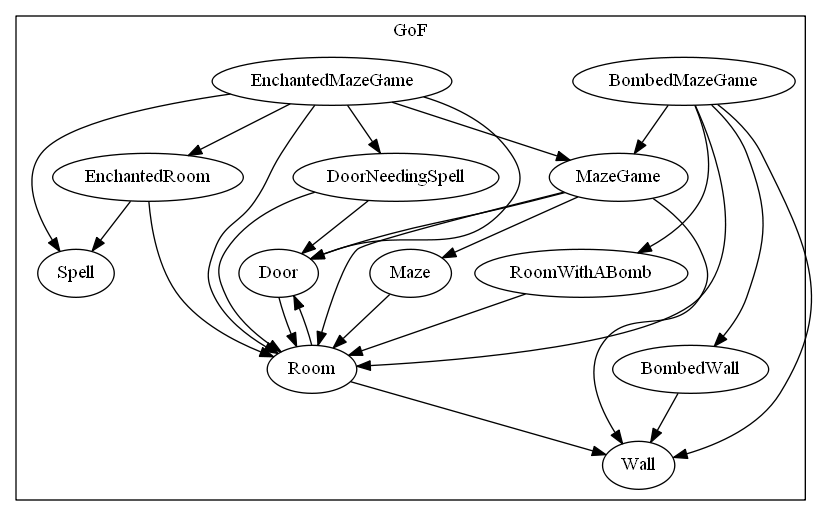
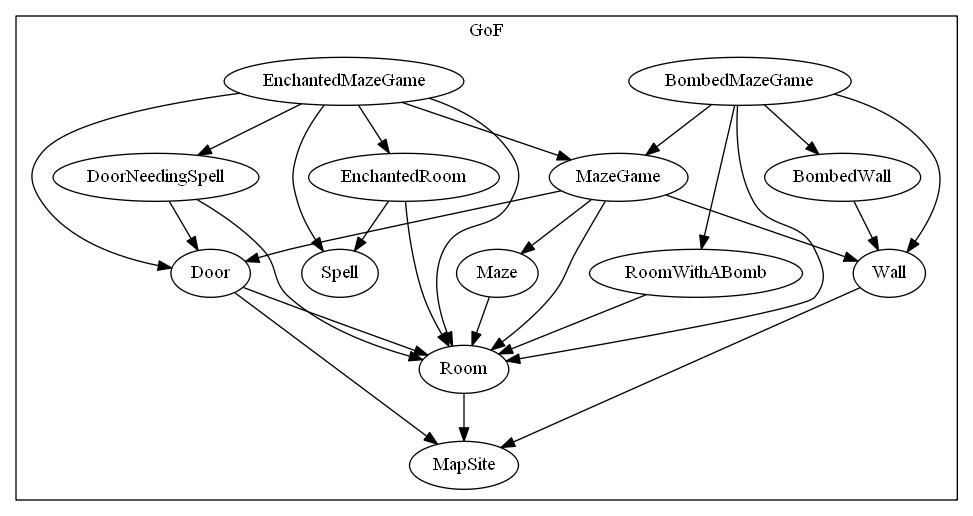
Adjust code to remove cycles by adding definitions from the start of chapter 3

diff --git a/Prototype/GoF.h b/Prototype/GoF.h
@@ -9,39 +9,51 @@ namespace PrototypePattern::GoF
 		East,
 		West
 	};
-	class Door;
-	class Wall {
+
+	class MapSite {
 	public:
+		virtual void Enter() = 0;
+	};
+
+	class Door;
+
+	class Wall : public MapSite {
+	public:
+		Wall() {}
+		virtual void Enter() {}
 		Wall* Clone() { return this; }
 	};
-	class Room {
+
+	class Room : public MapSite {
 	public:
 		Room() {}
-		Room(int n) {}
-		void SetSide(Direction, Wall*) {}
-		void SetSide(Direction, Door*) {}
+		Room(int roomNo) {}
+		MapSite* GetSide(Direction) const { return nullptr; }
+		void SetSide(Direction, MapSite*) {}
+		virtual void Enter() {}
+	private:
+		MapSite* _sides[4];
+		int _roomNumber;
 	};
+
+	class Door : public MapSite {
+	public:
+		Door(Room* = 0, Room* = 0) {}
+		Door(const Door&);
+		virtual void Enter() {}
+		Room* OtherSideFrom(Room*) {}
+		virtual void Initialize(Room*, Room*);
+		virtual Door* Clone() const;
+	private:
+		Room* _room1;
+		Room* _room2;
+		bool _isOpen;
+	};
+
 	class Maze {
 	public:
 		Maze() {}
 		void AddRoom(Room*) {}
-	};
-
-	class MapSite {};
-
-	class Door : public MapSite {
-	public:
-		Door() {}
-		Door(const Door&);
-
-		virtual void Initialize(Room*, Room*);
-		virtual Door* Clone() const;
-
-		virtual void Enter() {}
-		Room* OtherSideFrom(Room*) { return nullptr; }
-	private:
-		Room* _room1;
-		Room* _room2;
 	};
 
 	Door::Door(const Door& other) {

diff --git a/AbstractFactory/GoF.h b/AbstractFactory/GoF.h
@@ -9,22 +9,46 @@ namespace AbstractFactoryPattern::GoF
 		East,
 		West
 	};
-	class Door;
-	class Wall {};
-	class Room {
+
+	class MapSite {
 	public:
-		Room(int n) {}
-		void SetSide(Direction, Wall*) {}
-		void SetSide(Direction, Door*) {}
+		virtual void Enter() = 0;
 	};
+
+	class Door;
+
+	class Wall : public MapSite {
+	public:
+		Wall() {}
+		virtual void Enter() {}
+	};
+
+	class Room : public MapSite {
+	public:
+		Room(int roomNo) {}
+		MapSite* GetSide(Direction) const { return nullptr; }
+		void SetSide(Direction, MapSite*) {}
+		virtual void Enter() {}
+	private:
+		MapSite* _sides[4];
+		int _roomNumber;
+	}; 
+
+	class Door : public MapSite {
+	public:
+		Door(Room* = 0, Room* = 0) {}
+		virtual void Enter() {}
+		Room* OtherSideFrom(Room*) {}
+	private:
+		Room* _room1;
+		Room* _room2;
+		bool _isOpen;
+	};
+
 	class Maze {
 	public:
 		Maze() {}
 		void AddRoom(Room*) {}
-	};
-	class Door {
-	public:
-		Door(Room* r1, Room* r2) {}
 	};
 
 	class MazeFactory {

diff --git a/FactoryMethod/GoF.h b/FactoryMethod/GoF.h
@@ -9,22 +9,46 @@ namespace FactoryMethodPattern::GoF
 		East,
 		West
 	};
-	class Door;
-	class Wall {};
-	class Room {
+
+	class MapSite {
 	public:
-		Room(int n) {}
-		void SetSide(Direction, Wall*) {}
-		void SetSide(Direction, Door*) {}
+		virtual void Enter() = 0;
 	};
+
+	class Door;
+
+	class Wall : public MapSite {
+	public:
+		Wall() {}
+		virtual void Enter() {}
+	};
+
+	class Room : public MapSite {
+	public:
+		Room(int roomNo) {}
+		MapSite* GetSide(Direction) const { return nullptr; }
+		void SetSide(Direction, MapSite*) {}
+		virtual void Enter() {}
+	private:
+		MapSite* _sides[4];
+		int _roomNumber;
+	};
+
+	class Door : public MapSite {
+	public:
+		Door(Room* = 0, Room* = 0) {}
+		virtual void Enter() {}
+		Room* OtherSideFrom(Room*) {}
+	private:
+		Room* _room1;
+		Room* _room2;
+		bool _isOpen;
+	};
+
 	class Maze {
 	public:
 		Maze() {}
 		void AddRoom(Room*) {}
-	};
-	class Door {
-	public:
-		Door(Room* r1, Room* r2) {}
 	};
 
 	class MazeGame {

diff --git a/Builder/GoF.h b/Builder/GoF.h
@@ -54,18 +54,39 @@ namespace BuilderPattern::GoF
 		West
 	};
 
-	class Door {
+	class MapSite {
 	public:
-		Door(Room* r1, Room* r2) {}
+		virtual void Enter() = 0;
 	};
 
-	class Wall {};
+	class Door;
 
-	class Room {
+	class Wall : public MapSite {
 	public:
-		Room(int) {}
-		void SetSide(Direction, Door*) {}
-		void SetSide(Direction, Wall*) {}
+		Wall() {}
+		virtual void Enter() {}
+	};
+
+	class Room : public MapSite {
+	public:
+		Room(int roomNo) {}
+		MapSite* GetSide(Direction) const { return nullptr; }
+		void SetSide(Direction, MapSite*) {}
+		virtual void Enter() {}
+	private:
+		MapSite* _sides[4];
+		int _roomNumber;
+	};
+
+	class Door : public MapSite {
+	public:
+		Door(Room* = 0, Room* = 0) {}
+		virtual void Enter() {}
+		Room* OtherSideFrom(Room*) {}
+	private:
+		Room* _room1;
+		Room* _room2;
+		bool _isOpen;
 	};
 
 	class StandardMazeBuilder : public MazeBuilder {
